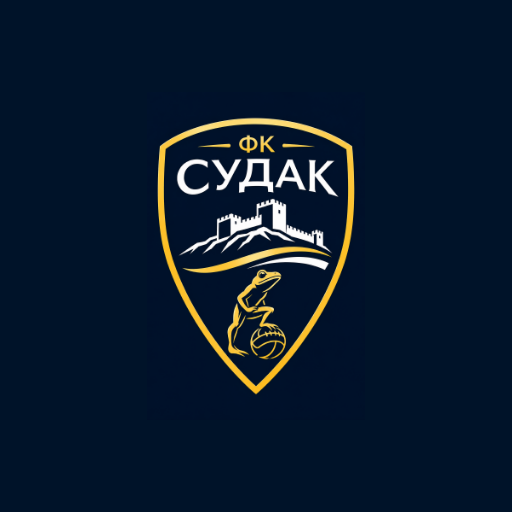
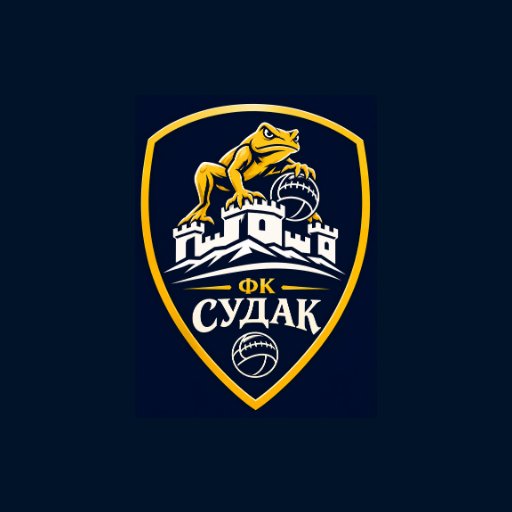
Install final approved crest and smooth PWA launch transition

Changed region(s): [[0.25, 0.1875, 0.75, 0.8125]]

diff --git a/index.html b/index.html
@@ -6,9 +6,9 @@
 <link rel="manifest" href="manifest.json">
 <meta name="theme-color" content="#001329">
 <style id="launch-canvas">html{background:#001329}</style>
-<link rel="apple-touch-icon" href="icon-192.png?v=crest-v4">
-<link rel="icon" type="image/png" href="icon-192.png?v=crest-v4">
-<link rel="preload" as="image" href="assets/club-crest-original.png" fetchpriority="high">
+<link rel="apple-touch-icon" sizes="180x180" href="apple-touch-icon.png?v=final-crest-v7">
+<link rel="icon" type="image/png" sizes="32x32" href="favicon.png?v=final-crest-v7">
+<link rel="preload" as="image" href="assets/club-crest-final-original.png" fetchpriority="high">
 <title>ФК «Судак»</title>
 <style>
 :root{--bg:#EEF3F5;--card:#fff;--ink:#0F2C45;--mute:#5E7486;--line:#D9E3E8;--sea:#1B7A8C;--navy:#0F2C45;--sun:#E3A93B;--win:#1E8E5A;--loss:#C0453A;--onnavy:#fff;color-scheme:light}
@@ -306,9 +306,8 @@ main:has(#squad.on){max-width:1200px}
 #launch-splash.is-leaving{opacity:0}
 .launch-crest{
   display:block;align-self:center;width:min(70vw,380px);height:auto;
-  max-width:100%;max-height:calc(100% - 96px);object-fit:contain;opacity:0;
+  max-width:100%;max-height:calc(100% - 96px);object-fit:contain;opacity:1;
 }
-.crest-ready .launch-crest{animation:launch-appear .5s ease-out both}
 .launch-name{
   position:absolute;inset-inline:16px;bottom:calc(40px + env(safe-area-inset-bottom,0px));
   margin:0;padding-left:.24em;font-size:clamp(18px,4.6vw,24px);
@@ -319,7 +318,6 @@ main:has(#squad.on){max-width:1200px}
   border:1px solid var(--line);border-radius:14px;background:var(--card);color:var(--ink);
 }
 #launch-error button,#retry-data{font:inherit;min-height:44px;padding:8px 12px;cursor:pointer}
-@keyframes launch-appear{from{opacity:0}to{opacity:1}}
 @media(prefers-reduced-motion:reduce){
   #launch-splash{transition:none!important}
   #launch-splash.is-leaving{opacity:1}
@@ -329,7 +327,7 @@ main:has(#squad.on){max-width:1200px}
 </head>
 <body>
 <div id="launch-splash" role="status" aria-label="ФК Судак. Запуск приложения" aria-busy="true" hidden>
-  <img class="launch-crest" src="assets/club-crest-original.png" alt="" width="1024" height="1536" fetchpriority="high" decoding="async">
+  <img class="launch-crest" src="assets/club-crest-final-original.png" alt="" width="1086" height="1448" fetchpriority="high" decoding="async">
   <p class="launch-name" aria-hidden="true">ФК СУДАК</p>
 </div>
 <div id="launch-error" role="alert" hidden>
@@ -396,7 +394,7 @@ main:has(#squad.on){max-width:1200px}
 })();
 </script>
 
-<header><div class="crest" aria-hidden="true"><img src="icon-192.png?v=crest-v4" alt="" width="54" height="54"></div><div class="brand"><h1>ФК «Судак»</h1><p>Открытый чемпионат Крыма · 2026</p></div></header>
+<header><div class="crest" aria-hidden="true"><img src="icon-192.png?v=final-crest-v7" alt="" width="54" height="54"></div><div class="brand"><h1>ФК «Судак»</h1><p>Открытый чемпионат Крыма · 2026</p></div></header>
 <main>
 <section id="home" class="on" aria-label="Главная"></section>
 <section id="matches" aria-label="Матчи"></section>

diff --git a/tests/fixtures/sw-launch-v6.js b/tests/fixtures/sw-launch-v6.js
@@ -1,0 +1,47 @@
+// Launch v6: единый цвет системного и веб-запуска; прежние офлайн-ресурсы.
+const CACHE="sudak-launch-v6";
+const SHELL=["./","./index.html","./manifest.json","./assets/club-crest-original.png","./icon-192.png?v=crest-v4","./icon-512.png?v=crest-v4","./icon-maskable-512.png?v=crest-v4"];
+
+self.addEventListener("install",event=>{
+  event.waitUntil((async()=>{
+    const cache=await caches.open(CACHE);
+    await cache.addAll(SHELL.map(url=>new Request(url,{cache:"reload"})));
+    await self.skipWaiting();
+  })());
+});
+
+self.addEventListener("activate",event=>{
+  event.waitUntil((async()=>{
+    const keys=await caches.keys();
+    await Promise.all(keys.filter(key=>key.startsWith("sudak-")&&key!==CACHE)
+      .map(key=>caches.delete(key)));
+    await self.clients.claim();
+  })());
+});
+
+self.addEventListener("fetch",event=>{
+  if(event.request.method!=="GET")return;
+  const url=new URL(event.request.url);
+  if(url.origin!==self.location.origin)return;
+  // data.json всегда читается из сети; при её отсутствии приложение
+  // явно сообщает о недоступности свежих данных.
+  if(url.pathname.endsWith("/data.json"))return;
+  event.respondWith((async()=>{
+    // The approved PNG is immutable within this shell version. Prefer the
+    // precached original so a weak connection cannot delay the launch artwork.
+    if(url.pathname.endsWith("/assets/club-crest-original.png")){
+      const cached=await (await caches.open(CACHE)).match(event.request);
+      if(cached)return cached;
+    }
+    try{
+      const response=await fetch(event.request,{cache:"no-store"});
+      if(response.ok){
+        const cache=await caches.open(CACHE);
+        cache.put(event.request,response.clone()).catch(()=>{});
+      }
+      return response;
+    }catch{
+      return (await caches.match(event.request))||Response.error();
+    }
+  })());
+});

diff --git a/sw.js b/sw.js
@@ -1,6 +1,6 @@
-// Launch v6: единый цвет системного и веб-запуска; прежние офлайн-ресурсы.
-const CACHE="sudak-launch-v6";
-const SHELL=["./","./index.html","./manifest.json","./assets/club-crest-original.png","./icon-192.png?v=crest-v4","./icon-512.png?v=crest-v4","./icon-maskable-512.png?v=crest-v4"];
+// Launch v7: утверждённая финальная эмблема и единый фон запуска.
+const CACHE="sudak-launch-v7";
+const SHELL=["./","./index.html","./manifest.json","./assets/club-crest-final-original.png","./icon-192.png?v=final-crest-v7","./icon-512.png?v=final-crest-v7","./icon-maskable-512.png?v=final-crest-v7","./favicon.png?v=final-crest-v7","./apple-touch-icon.png?v=final-crest-v7"];
 
 self.addEventListener("install",event=>{
   event.waitUntil((async()=>{
@@ -29,7 +29,7 @@ self.addEventListener("fetch",event=>{
   event.respondWith((async()=>{
     // The approved PNG is immutable within this shell version. Prefer the
     // precached original so a weak connection cannot delay the launch artwork.
-    if(url.pathname.endsWith("/assets/club-crest-original.png")){
+    if(url.pathname.endsWith("/assets/club-crest-final-original.png")){
       const cached=await (await caches.open(CACHE)).match(event.request);
       if(cached)return cached;
     }

diff --git a/apply_visual_refresh.py b/apply_visual_refresh.py
@@ -19,7 +19,7 @@ marker='/* Modern Football Home 2026'
 # Verify exact anchors before any file is changed; no partial transformations.
 if marker not in html:
     header_old='<header><div class="crest" aria-hidden="true">С</div><div><h1>ФК «Судак»</h1><p>Открытый чемпионат Крыма · 2026</p></div></header>'
-    header_new='<header><div class="crest" aria-hidden="true"><img src="icon-192.png?v=crest-v4" alt="" width="54" height="54"></div><div class="brand"><h1>ФК «Судак»</h1><p>Открытый чемпионат Крыма · 2026</p></div></header>'
+    header_new='<header><div class="crest" aria-hidden="true"><img src="icon-192.png?v=final-crest-v7" alt="" width="54" height="54"></div><div class="brand"><h1>ФК «Судак»</h1><p>Открытый чемпионат Крыма · 2026</p></div></header>'
     tag_nearest='`<div class="card next"><span class="tag">Ближайший матч</span>'
     tag_result='`<h2>Последний матч</h2><a class="card match-link"'
     tag_position='?`<h2>В таблице</h2><div class="card"><div class="row">'
@@ -39,7 +39,7 @@ if marker not in html:
            '<p>Следите за матчами, результатами и командой в одном месте.</p></div>`+')
     html=html.replace(tag_home,'$("home").innerHTML='+intro+'nearest+latest+',1)
     html=html.replace('<link rel="apple-touch-icon" href="icon-192.png">',
-                      '<link rel="apple-touch-icon" href="icon-192.png?v=crest-v4">\n<link rel="icon" type="image/png" href="icon-192.png?v=crest-v4">',1)
+                      '<link rel="apple-touch-icon" sizes="180x180" href="apple-touch-icon.png?v=final-crest-v7">\n<link rel="icon" type="image/png" sizes="32x32" href="favicon.png?v=final-crest-v7">',1)
 else:
     print('UI already applied; verifying PWA icons and manifest')
 
@@ -47,20 +47,21 @@ else:
 manifest_path=root/'manifest.json'
 manifest=json.loads(manifest_path.read_text(encoding='utf-8'))
 manifest['icons']=[
-    {'src':'icon-192.png?v=crest-v4','sizes':'192x192','type':'image/png','purpose':'any'},
-    {'src':'icon-512.png?v=crest-v4','sizes':'512x512','type':'image/png','purpose':'any'},
-    {'src':'icon-maskable-512.png?v=crest-v4','sizes':'512x512','type':'image/png','purpose':'maskable'},
+    {'src':'icon-192.png?v=final-crest-v7','sizes':'192x192','type':'image/png','purpose':'any'},
+    {'src':'icon-512.png?v=final-crest-v7','sizes':'512x512','type':'image/png','purpose':'any'},
+    {'src':'icon-maskable-512.png?v=final-crest-v7','sizes':'512x512','type':'image/png','purpose':'maskable'},
 ]
 manifest.setdefault('description','ФК «Судак» — результаты, календарь, состав и новости')
 
 sw_path=root/'sw.js'
 sw=sw_path.read_text(encoding='utf-8')
-for previous in ['sudak-v2','sudak-ui-v3','sudak-crest-v4','sudak-launch-v5']:
-    sw=sw.replace(f'const CACHE="{previous}";','const CACHE="sudak-launch-v6";',1)
-if 'const CACHE="sudak-launch-v6";' not in sw:
+for previous in ['sudak-v2','sudak-ui-v3','sudak-crest-v4','sudak-launch-v5','sudak-launch-v6']:
+    sw=sw.replace(f'const CACHE="{previous}";','const CACHE="sudak-launch-v7";',1)
+if 'const CACHE="sudak-launch-v7";' not in sw:
     raise SystemExit('ERROR: unknown service-worker version. No files changed.')
-new='const SHELL=["./","./index.html","./manifest.json","./assets/club-crest-original.png","./icon-192.png?v=crest-v4","./icon-512.png?v=crest-v4","./icon-maskable-512.png?v=crest-v4"];'
+new='const SHELL=["./","./index.html","./manifest.json","./assets/club-crest-final-original.png","./icon-192.png?v=final-crest-v7","./icon-512.png?v=final-crest-v7","./icon-maskable-512.png?v=final-crest-v7","./favicon.png?v=final-crest-v7","./apple-touch-icon.png?v=final-crest-v7"];'
 for previous in [
+    'const SHELL=["./","./index.html","./manifest.json","./assets/club-crest-original.png","./icon-192.png?v=crest-v4","./icon-512.png?v=crest-v4","./icon-maskable-512.png?v=crest-v4"];',
     'const SHELL=["./","./index.html","./manifest.json","./icon-192.png?v=crest-v4","./icon-512.png?v=crest-v4","./icon-maskable-512.png?v=crest-v4"];',
     'const SHELL=["./","./index.html","./manifest.json"];',
     'const SHELL=["./","./index.html","./manifest.json","./icon-192.png","./icon-512.png","./icon-maskable-512.png"];',

diff --git a/tests/test_visual_refresh.py b/tests/test_visual_refresh.py
@@ -60,14 +60,16 @@ class VisualRefreshTests(unittest.TestCase):
                                ('fk-sudak-pwa-512.png', 'icon-512.png'),
                                ('fk-sudak-pwa-maskable-512.png', 'icon-maskable-512.png')]:
             self.assertEqual((ROOT / source).read_bytes(), (ROOT / output).read_bytes())
+        self.assertEqual(png_size(ROOT / 'favicon.png'), (32, 32))
+        self.assertEqual(png_size(ROOT / 'apple-touch-icon.png'), (180, 180))
 
     def test_inline_css_matches_source_and_header_uses_new_icon(self):
         html = (ROOT / 'index.html').read_text()
         css = (ROOT / 'modern-home.css').read_text()
         self.assertIn(css, html)
         self.assertEqual(html.count('/* Modern Football Home 2026'), 1)
-        self.assertIn('<img src="icon-192.png?v=crest-v4" alt="" width="54" height="54">', html)
-        self.assertIn('<link rel="icon" type="image/png" href="icon-192.png?v=crest-v4">', html)
+        self.assertIn('<img src="icon-192.png?v=final-crest-v7" alt="" width="54" height="54">', html)
+        self.assertIn('<link rel="icon" type="image/png" sizes="32x32" href="favicon.png?v=final-crest-v7">', html)
 
     def test_rerun_is_idempotent_and_preserves_federation_files(self):
         with tempfile.TemporaryDirectory() as tmp:

diff --git a/docs/pwa-launch.md b/docs/pwa-launch.md
@@ -1,48 +1,89 @@
 # Запуск установленного PWA на Android
 
-PR #12 добавил одну веб-заставку на 3500 мс. Другой экран с маленькой эмблемой
-не создаётся HTML/JavaScript: его показывает Android/Chrome до первого кадра
-установленного приложения, используя manifest. Эмблема в шапке принадлежит
-основному интерфейсу и закрыта веб-заставкой во время запуска.
+## Финальная эмблема
 
-До исправления фон manifest и theme-color был `#0F2C45`, а фон веб-заставки
-и установочных иконок — `#001329`. Переход дополнительно подчёркивали разные
-цвета и смещение большой эмблемы вверх из-за нижней строки названия.
+Используется предоставленный владельцем PNG `assets/club-crest-final-original.png`,
+1086×1448 (3:4), сохранённый побайтно, без перерисовки, перекраски и обрезки.
[1 lines of base64/hex data omitted]
+Предыдущий исходник `assets/club-crest-original.png` не изменён. Предыдущие
+установочные PNG сохранены в `assets/previous-crest/crest-v4/`; более ранний
+архив `assets/previous-crest/` также сохранён.
 
-Теперь manifest background_color/theme_color, HTML theme-color, ранний фон
-HTML и веб-заставка используют `#001329`. Временный фон HTML снимается
-при закрытии заставки, сохраняя прежнее оформление самого приложения.
-Большая эмблема центрирована в доступной области с учётом safe-area;
-название закреплено отдельно внизу.
-Ширина эмблемы по-прежнему 70vw (максимум 380px), на низких экранах она
-пропорционально вписывается по высоте. Исходный PNG, иконки 192/512 и отдельная
-maskable-иконка с безопасными полями не изменены.
+`node scripts/generate-club-crest.cjs` воспроизводит иконки через существующий
+Playwright/Chromium, без новых зависимостей. Полное изображение пропорционально
+вписывается в непрозрачный квадрат с фоном `#001329`. Собственный фон внутри
+PNG сохраняется: перекрашивается только окружающий холст, не изображение:
 
-Веб-заставка сохраняет появление 0–0,5 с, исчезновение 3,0–3,5 с и статичный
-показ все 3500 мс при prefers-reduced-motion. Логика показа, навигация,
-данные и офлайн-логика сохранены; версия оболочки SW — sudak-launch-v6.
+- `icon-192.png` и `icon-512.png` (`purpose: any`) — 94% высоты холста.
+- `icon-maskable-512.png` — 63% высоты. При пропорции 3:4 даже углы полного
+  изображения находятся внутри безопасного круга радиуса 40% стороны
+  (радиус до угла около 39,4%). Защитные поля сохраняют оба мяча и весь щит.
+- `favicon.png` — 32×32, `apple-touch-icon.png` — 180×180, также с полями 3%.
+- `fk-sudak-pwa-*.png` — побайтные копии соответствующих установочных иконок,
+  чтобы служебный `apply_visual_refresh.py` не восстановил старую эмблему.
 
-## Ограничения и проверка на телефоне
+Адреса иконок имеют версию `final-crest-v7`. Новый исходник имеет отдельное имя:
+старый SW не сможет вернуть предыдущий PNG из своего cache-first обработчика.
+SW `sudak-launch-v7` заранее кэширует новый оригинал, manifest, HTML и все пять
+иконок; после установки удаляет предыдущие кэши оболочки, включая v6.
+Стратегии запросов и обход SW для data.json сохранены. Данные и статистика,
+локальное сохранение, навигация и почасовое обновление не изменялись.
 
-Android задаёт размер, маску, положение и длительность системной иконки.
-Веб-код не может отключить системный экран или надёжно сделать его эмблему
-размером 70vw. Общий фон и центрирование смягчают переход, но полного
-совпадения двух изображений на всех устройствах гарантировать нельзя.
-Не используются вымышленные manifest-поля, нативные API или масштабирование
-иконок за пределы безопасной области.
+## Один непрерывный запуск
 
-Ранее установленный WebAPK может получить новый цвет manifest позже, чем
-обновится веб-страница: этим обновлением управляет Chrome. Имя, адрес manifest,
-start_url, scope и display сохранены, поэтому идентичность приложения не меняется.
+Android/Chrome показывает системный экран до первого веб-кадра установленного
+PWA, используя manifest. Затем HTML показывает единственный веб-оверлей;
+маленькая эмблема шапки закрыта им до завершения запуска.
 
-На устройстве после применения обновлённого manifest следует проверить новый
-и повторный запуск из значка, одинаковый фон системного и веб-экрана, отсутствие
-промежуточного кадра шапки/старой эмблемы/белого фона, затем запуск без сети и
-системную настройку уменьшения анимации. Браузерные тесты проверяют веб-часть,
-настоящий SW и manifest; запуск Android WebAPK ими не эмулируется.
+Manifest background_color/theme_color, HTML theme-color, ранний фон HTML,
+веб-заставка и фон иконок согласованы: `#001329` в обеих темах. Цвет системных
+панелей задаётся через theme-color в пределах поддержки Android/Chrome.
+Временный фон HTML снимается после запуска, сохраняя оформление приложения.
 
-Источники:
+Эмблема центрирована в доступной области с учётом safe-area; подпись закреплена
+отдельно внизу. Ширина 70vw (максимум 380px), на низких экранах изображение
+вписывается по высоте без обрезки. Установочная maskable-иконка и веб-экран
+содержат одну и ту же полную эмблему.
+
+Убрано повторное появление эмблемы из прозрачности: после её загрузки веб-эмблема
+сразу непрозрачна. Исчезновение остаётся плавным в интервале 3,0–3,5 секунды.
+Веб-интервал 3500 мс отсчитывается после готовности изображения и интерфейса;
+при reduced motion эмблема статична все 3500 мс. Контроллер создаётся один раз
+на документ. Переходы между разделами, возврат к вкладке, focus, visibilitychange
+и обновление данных не запускают заставку повторно. Новая загрузка документа
+(включая перезагрузку) запускает её снова. Прежние обработка ошибок и ограничение
+ожидания запуска 8 сек. сохранены.
+
+Android определяет размер, маску, положение и длительность системной заставки.
+CSS/JavaScript обычного PWA не могут отключить её, управлять её длительностью
+или гарантировать совпадение размера с большой веб-эмблемой. Общие цвета,
+центрирование и отсутствие повторного fade-in смягчают переход. Изменять рисунок
+или выходить за maskable safe zone ради увеличения системной иконки нельзя.
+
+## Обновление установленного приложения
+
+После объединения PR и публикации GitHub Pages:
+
+1. Открыть PWA с интернетом, дождаться загрузки, затем полностью закрыть его
+   и открыть снова: новая оболочка и рисунок должны загрузиться через SW.
+2. Проверить шапку, большую заставку, повторный запуск и открытие без сети.
+3. Если веб-эмблема новая, а значок Android или системная заставка ещё старые,
+   дать Chrome время на отдельное обновление manifest/WebAPK (обычно день-два).
+   Название и адрес manifest, start_url, scope и display не менялись.
+4. Если Android продолжает использовать старый значок, удалить установленное
+   PWA/старый ярлык и установить приложение заново из обновлённого сайта в Chrome.
+   Перед удалением полезно открыть сайт онлайн: локальный офлайн-кэш при удалении
+   может быть потерян. При новой установке открыть приложение с сетью один раз.
+
+На физическом устройстве нужно оценить системный и веб-экраны, цвета панелей,
+отсутствие промежуточного кадра старой эмблемы/шапки, запуск без сети и reduced
+motion. Браузерные тесты проверяют веб-часть и настоящий SW, включая обновление
+активного v6 до v7 и точные байты всех новых иконок офлайн; они не эмулируют
+физический запуск Android WebAPK. Исчезновение системной заставки не заявляется.
+
+## Источники
 
 - [Chrome: splash screens on mobile](https://web.dev/articles/add-manifest#splash_screens_on_mobile)
 - [Android: системная заставка и размеры](https://developer.android.com/develop/ui/views/launch/splash-screen/)
+- [Chrome: maskable safe zone](https://web.dev/articles/maskable-icon)
 - [Chrome: обновление manifest установленного PWA](https://web.dev/articles/manifest-updates)

diff --git a/assets/previous-crest/README.md b/assets/previous-crest/README.md
@@ -1,15 +1,20 @@
-These six PNG files are byte-for-byte copies of the club icons before the approved
-crest replacement (base commit 7ce7062). They are not referenced by the app or SW.
+# Archived club crests
 
-The original replacement image is `../club-crest-original.png`, copied without
-modification from the image attached by the club owner. Regenerate the current
-icons with `node scripts/generate-club-crest.cjs` using the Playwright setup from
-`tests/browser.cjs` (including its optional local browser environment variables).
+The six PNGs in this directory are byte-for-byte copies of the icons before the
+first approved crest replacement (base commit `7ce7062`). They are not referenced
+by the app or SW. They have not been modified during the final crest replacement.
 
-The generator fits the complete 2:3 image into opaque square canvases, preserving
-its aspect ratio. The maskable image is 64% of the canvas height, keeping even its
-corners inside the central 40%-radius safe circle. No artwork is cropped, redrawn,
-recoloured or rearranged.
+The next approved image remains unchanged at `../club-crest-original.png`.
+Its six derived icons (from main `f5429c4`) are archived in `crest-v4/`.
 
-To restore the previous crest, copy these PNGs to the repository root, update
-the image URL versions and bump the SW cache version again before publishing.
+The current owner-supplied original is `../club-crest-final-original.png`.
+Regenerate the current icons with `node scripts/generate-club-crest.cjs`, using
+the Playwright setup from `tests/browser.cjs` and its optional local renderer
+variables. The complete 3:4 image is fitted onto opaque `#001329` square canvases:
+94% height for regular icons, favicon and Apple Touch Icon, and 63% height for
+maskable, keeping even the image corners within the 40%-radius safe circle.
+No artwork is cropped, redrawn, recoloured or rearranged.
+
+To restore an archived crest, copy the chosen icons to the repository root,
+update all artwork references and URL versions, and bump the SW cache again.
+See `../../docs/pwa-launch.md` for the current launch and update behaviour.

diff --git a/assets/previous-crest/crest-v4/README.md b/assets/previous-crest/crest-v4/README.md
@@ -1,0 +1,12 @@
+# Предыдущая эмблема (crest-v4)
+
+Шесть PNG скопированы побайтно из main `f5429c4` перед установкой финальной
+эмблемы. Они не используются приложением и не включаются в новый SW-кэш.
+Исходник этой версии остаётся без изменений в `../../club-crest-original.png`.
+Более ранняя версия сохранена рядом, в родительской папке `previous-crest`.
+
+Текущая эмблема: `../../club-crest-final-original.png` (1086×1448).
+SHA-256 предоставленного пользователем PNG:
[1 lines of base64/hex data omitted]
+
+Восстановление предыдущей версии требует нового номера ресурсов и SW-кэша.
